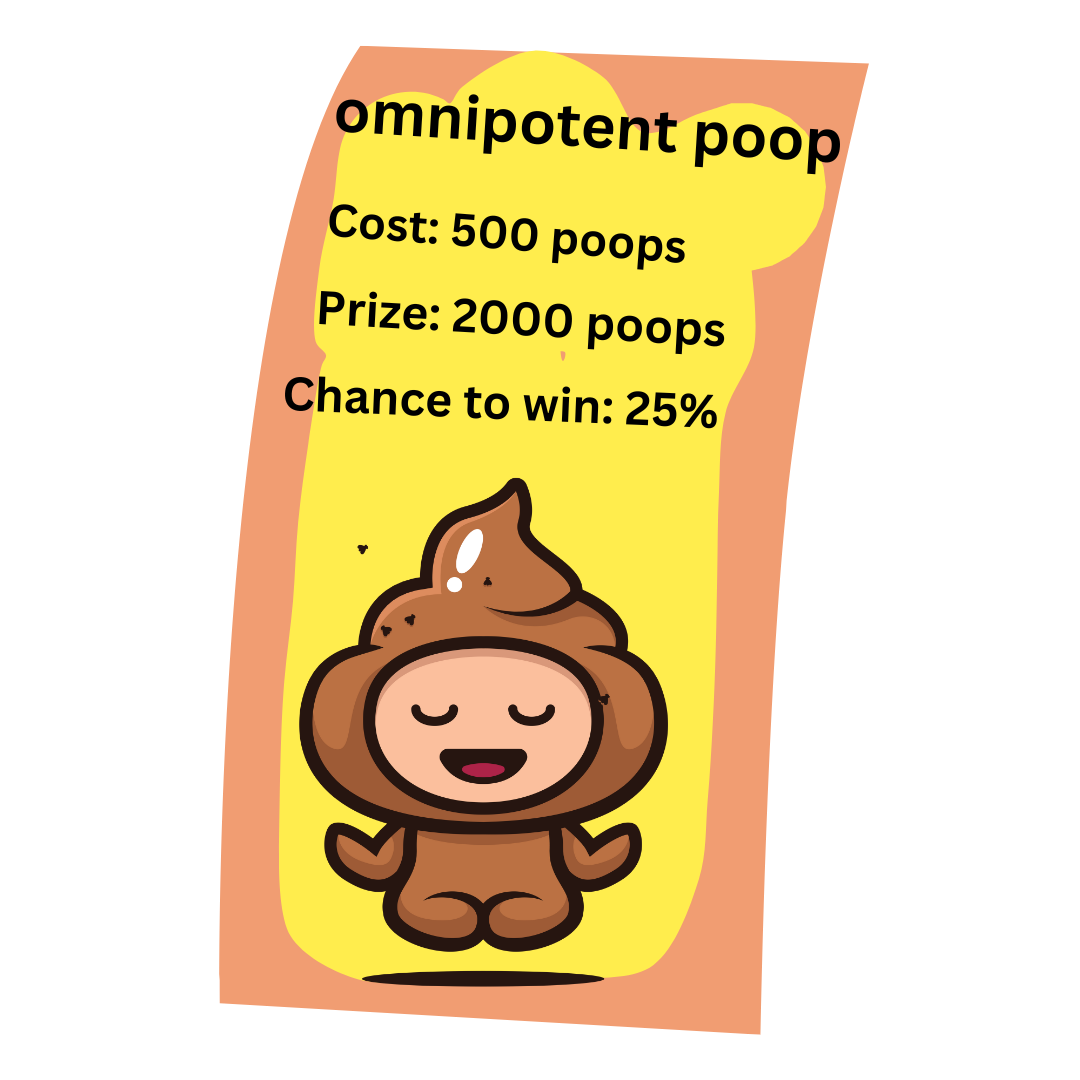
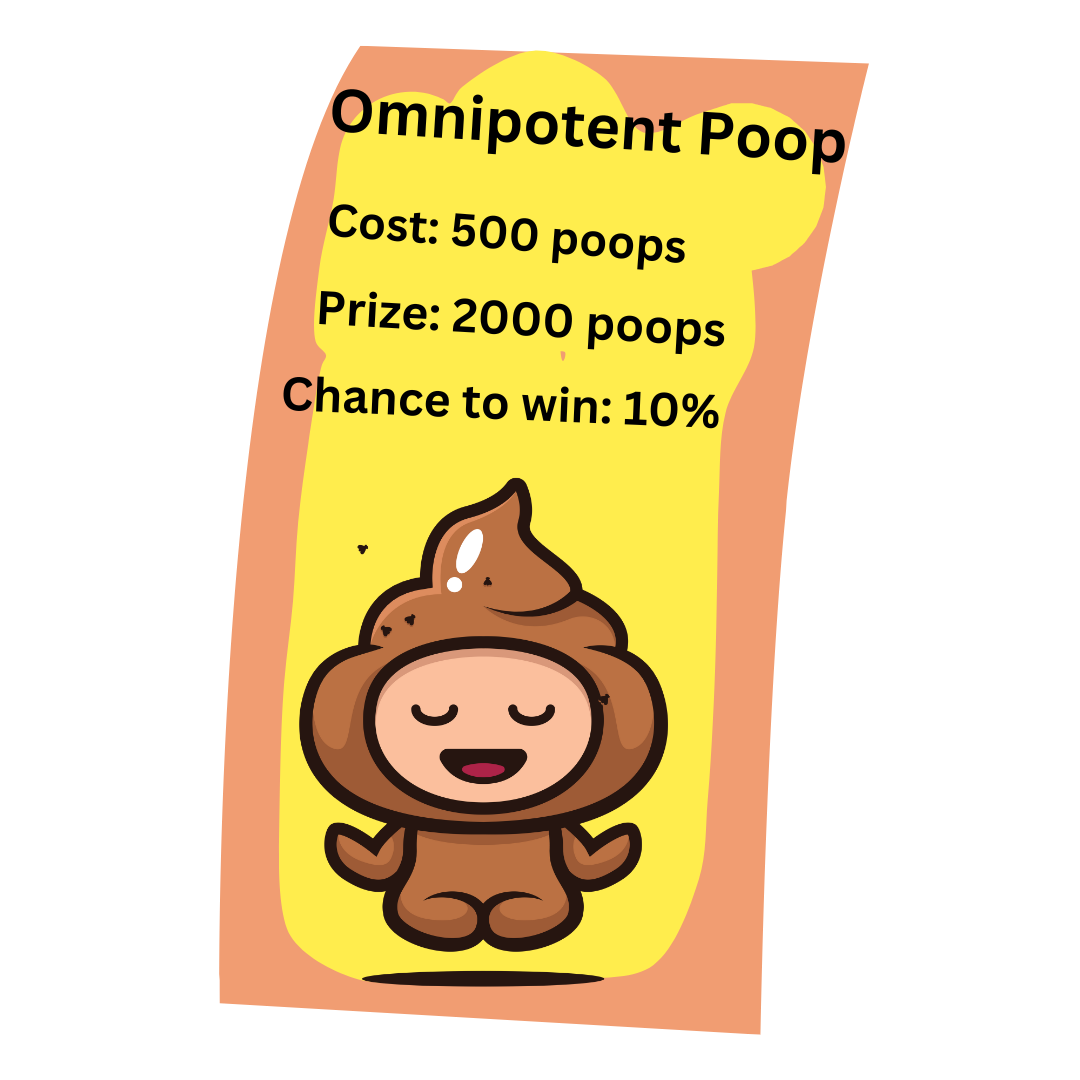
Omnipotent Poop idk how to speeld at bruh

Changed region(s): [[0.3056, 0.0611, 0.7944, 0.1833], [0.275, 0.3361, 0.6722, 0.3972]]

diff --git a/app/page.tsx b/app/page.tsx
@@ -6,7 +6,7 @@ import styles from './index.module.css';
 export default function SecretPage() {
   // Check for first visit
   useEffect(() => {
-    if (typeof window !== 'undefined') {  // Found from outside scource... hehehe. to find how to detect first visit on page
+    // if (typeof window == 'undefined') {  // Found from outside scource... hehehe. to find how to detect first visit on page
       const firstVisitCheck = localStorage.getItem('firstVisit');
       if (!firstVisitCheck) {
         alert("Welcome to poop puncher! Just punch the poop and figure stuff out on your own. Blehhhhh. heehehehe. BYEEE!!!");
@@ -29,7 +29,7 @@ export default function SecretPage() {
         localStorage.setItem('costToBuyPoopsPerSecond', JSON.stringify(100));
         localStorage.setItem('costToAddCostBuyPoopsPerSecond', JSON.stringify(20));
       }
-    }
+    // }
   }, []);
 
   {/* VARIABLES */}
@@ -88,9 +88,12 @@ export default function SecretPage() {
 
   // Stuff
   const [isLottery, setIsLottery] = useState(false);
+
   const [isPooperManAreYouSure, setIsPooperManAreYouSure] = useState(false);
 
   const [isDogTurdAreYouSure, setIsDogTurdAreYouSure] = useState(false);
+
+  const [isOmnipotentPoopAreYouSure, setIsOmnipotentPoopAreYouSure] = useState(false);
 
   function save() {
     if (typeof window !== 'undefined') {  // Ensure this runs only on the client
@@ -121,11 +124,15 @@ export default function SecretPage() {
     setIsDogTurdAreYouSure((prevState) => !prevState);
   }
 
+  function toggleIsOmnipotentPoopSure() {
+    setIsOmnipotentPoopAreYouSure((prevState) => !prevState);
+  }
+  
+
   function pooperManLotteryGo() {
     toggleIsPooperManSure()
     if (count >= 100) {
       setCount(count - 100);
-      setPoopBarThing(poopBarThing - 100)
       const winOrLose = Math.floor(Math.random() * 5);
       if (winOrLose == 0) {
         setCount(count + 500)
@@ -144,12 +151,29 @@ export default function SecretPage() {
     toggleIsDogTurdSure()
     if (count >= 500) {
       setCount(count - 500);
-      setPoopBarThing(poopBarThing - 500)
-      const winOrLose = Math.floor(Math.random() * 10);
-      if (winOrLose == 0 || winOrLose == 1 || winOrLose == 2) {
+      const winOrLose = Math.floor(Math.random() * 3);
+      if (winOrLose == 0) {
         setCount(count + 1000)
         setPoopsClickedEver(poopsClickedEver + 1000)
         setPoopBarThing(poopBarThing + 1000)
+        alert('You won!!! yayyy :)')
+      } else {
+      alert('You lost... :(') 
+      } 
+    } else {
+      alert("Stop GAMBLING YOU SICK ADDICTED DUMB AAA!!! GET SOME MORE POOPS, OR GET OUT!!!")
+    }
+  }
+
+  function ominpotentPoopLotteryGo() {
+    toggleIsOmnipotentPoopSure()
+    if (count >= 500) {
+      setCount(count - 500);
+      const winOrLose = Math.floor(Math.random() * 10);
+      if (winOrLose == 0) {
+        setCount(count + 2000)
+        setPoopsClickedEver(poopsClickedEver + 2000)
+        setPoopBarThing(poopBarThing + 2000)
         alert('You won!!! yayyy :)')
       } else {
       alert('You lost... :(') 
@@ -335,6 +359,16 @@ export default function SecretPage() {
             <div className={styles.areYouSureDogTurdBodyTitle}>Are you sure you want to buy Dog Turd? </div>
             <div onClick={dogTurdLotteryGo}className={styles.yesDoDogTurd}>Yes</div>
             <div onClick={toggleIsDogTurdSure}className={styles.noDoDogTurd}>No</div>
+          </div>
+
+          {/* Omnipotent Poop */}
+
+          <img onClick={toggleIsOmnipotentPoopSure} className={styles.omnipotentPoopLottery} src="omnipotentPoopLottery.png" alt="OmnipotentPoopLottery" />
+
+          <div className={styles.areYouSureOmnipotentPoopBody} style={{ opacity: isOmnipotentPoopAreYouSure ? 1 : 0, pointerEvents: isOmnipotentPoopAreYouSure ? 'all' : 'none'}}>
+            <div className={styles.areYouSureOmnipotentPoopBodyTitle}>Are you sure you want to buy Dog Turd? </div>
+            <div onClick={ominpotentPoopLotteryGo}className={styles.yesDoOmnipotentPoop}>Yes</div>
+            <div onClick={toggleIsOmnipotentPoopSure}className={styles.noDoOmnipotentPoop}>No</div>
           </div>
 
           </div>

diff --git a/app/index.module.css b/app/index.module.css
@@ -349,3 +349,65 @@
   margin-top: 10px;
   font-size: 30px;
 }
+
+/* Omnipotent Poop*/
+
+.omnipotentPoopLottery {
+  /* position: fixed;
+  left: 100px; */
+  width: 300px;
+  opacity: 1;
+}
+
+.areYouSureOmnipotentPoopBody {
+  position: fixed;
+  width: 50vw;
+  height: 40vh;
+  left: 25vw;
+  top: 30vh;
+  background-color: rgb(152, 213, 20);
+  border-radius: 20px;
+  opacity: 1;
+  box-shadow: 4px 4px 6px rgba(0, 0, 0, 0.7);
+}
+
+.yesDoOmnipotentPoop {
+  position: fixed;
+  font-size: 25px;
+  left: 390px;
+  top: 310px;
+  width: 8vw;
+  background-color: rgb(163, 235, 7);
+  padding: 7vw;
+  border-radius: 20px;
+  box-shadow: 4px 4px 6px rgba(0, 0, 0, 0.7);
+}
+
+.yesDoOmnipotentPoop:hover {
+  box-shadow: 4px 4px 6px rgba(0, 0, 0, 0);
+  left: 391px;
+  top: 311px;
+}
+
+.noDoOmnipotentPoop {
+  position: fixed;
+  font-size: 25px;
+  right: 390px;
+  top: 310px;
+  width: 8vw;
+  background-color: rgb(163, 235, 7);
+  padding: 7vw;
+  border-radius: 20px;
+  box-shadow: 4px 4px 6px rgba(0, 0, 0, 0.7);
+}
+
+.noDoOmnipotentPoop:hover {
+  box-shadow: 4px 4px 6px rgba(0, 0, 0, 0);
+  right: 389px;
+  top: 311px;
+}
+
+.areYouSureOmnipotentPoopBodyTitle {
+  margin-top: 10px;
+  font-size: 30px;
+}

diff --git a/app/layout.tsx b/app/layout.tsx
@@ -6,8 +6,8 @@ import "./globals.css";
 const inter = Inter({ subsets: ["latin"] });
 
 export const metadata: Metadata = {
-  title: "Create Next App",
-  description: "Generated by create next app",
+  title: "Poop Puncher",
+  description: "Code made by Lucas Cheng, generated by create next app",
 };
 
 export default function RootLayout({
